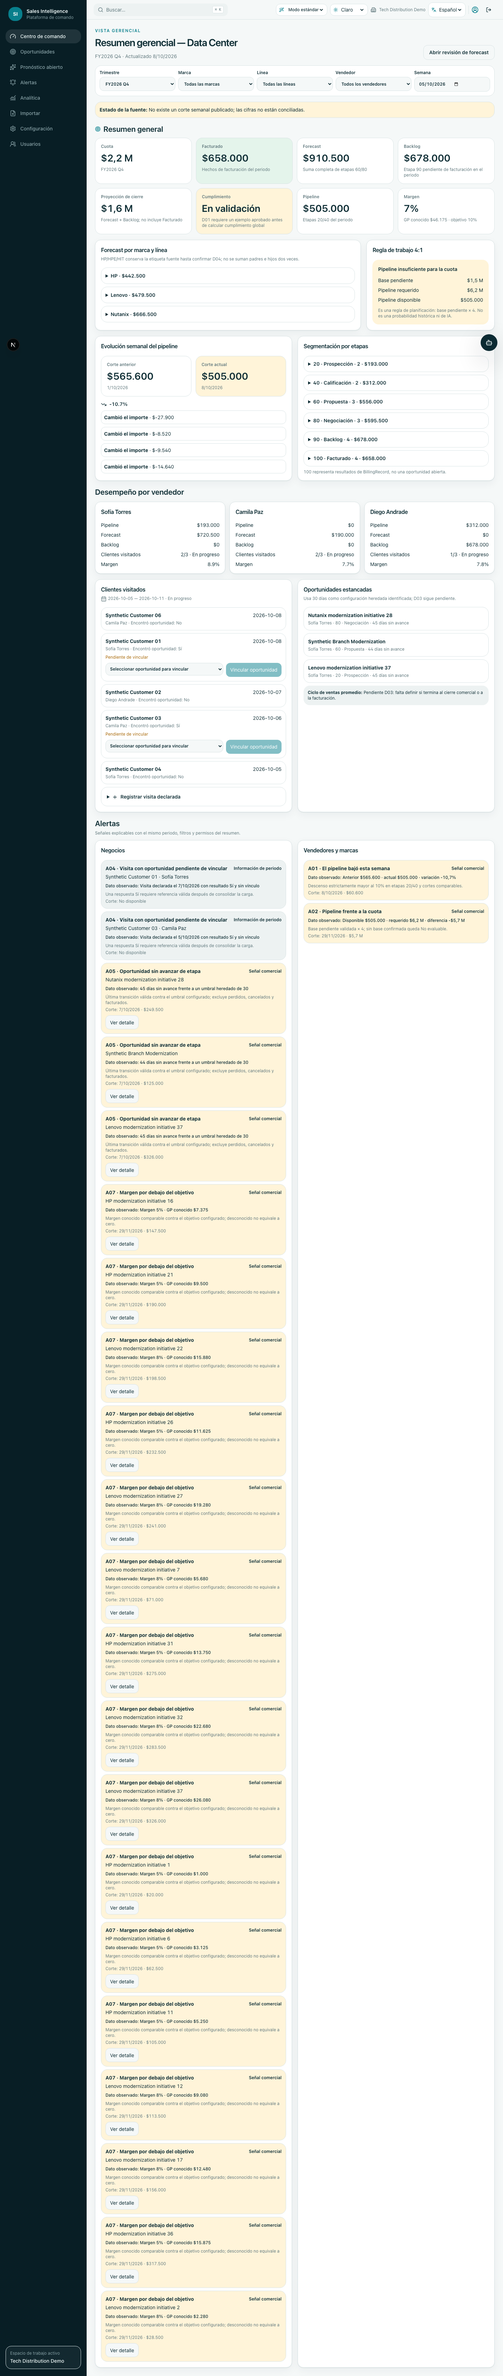
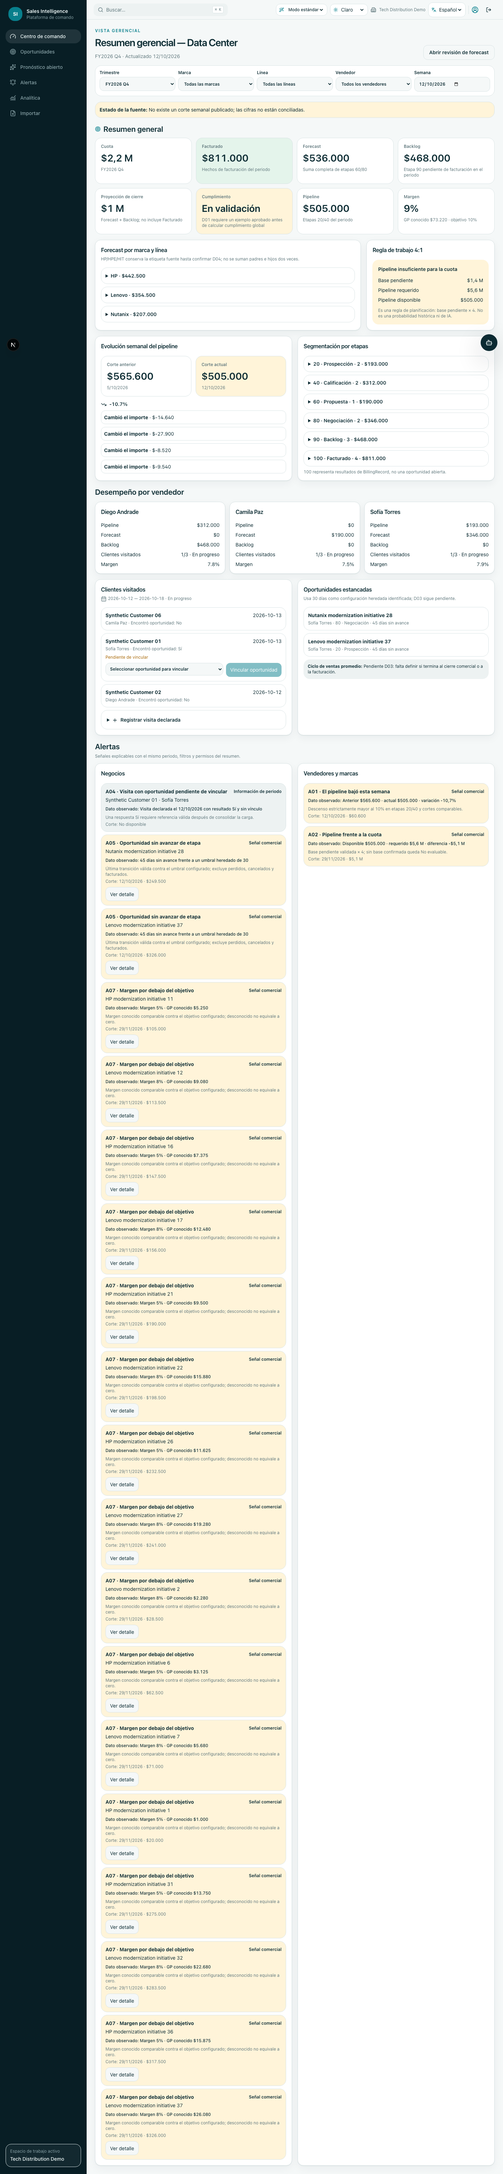
test(manager-dashboard): document integrated local review

diff --git a/apps/web/e2e/staging.spec.ts b/apps/web/e2e/staging.spec.ts
@@ -14,6 +14,10 @@ const executivePassword = process.env.STAGING_EXECUTIVE_PASSWORD;
 const viewerEmail = process.env.STAGING_VIEWER_EMAIL;
 const viewerPassword = process.env.STAGING_VIEWER_PASSWORD;
 const vercelAutomationBypass = process.env.VERCEL_AUTOMATION_BYPASS_SECRET;
+const evidenceDirectory = path.resolve(
+  process.cwd(),
+  '../../docs/audit/evidence/manager-dashboard-edgar',
+);
 
 let adminContext: BrowserContext;
 let adminPage: Page;
@@ -22,6 +26,12 @@ let managerPage: Page | undefined;
 let sellerContext: BrowserContext | undefined;
 let sellerPage: Page | undefined;
 const localLoginAttemptTimes: number[] = [];
+
+function isSyntheticEvidenceCaptureEnabled(): boolean {
+  return (
+    process.env.E2E_ALLOW_LOCAL === 'true' && process.env.E2E_CAPTURE_SYNTHETIC_EVIDENCE === 'true'
+  );
+}
 
 function browserContextOptions() {
   return {
@@ -278,6 +288,10 @@ test('admin can manage a synthetic opportunity', async () => {
 test('manager drills into stage evidence, opens context and closes with Escape', async () => {
   test.skip(!managerPage, 'Manager staging credentials are optional');
   const page = managerPage!;
+  const captureEvidence = isSyntheticEvidenceCaptureEnabled();
+  if (captureEvidence) await mkdir(evidenceDirectory, { recursive: true });
+  await page.setViewportSize({ width: 1440, height: 1024 });
+  await page.evaluate(() => localStorage.setItem('sip-appearance', 'LIGHT'));
   await page.goto('/app/dashboard');
 
   const negotiation = page.locator('details').filter({ hasText: '80 · Negotiation' }).first();
@@ -288,6 +302,11 @@ test('manager drills into stage evidence, opens context and closes with Escape',
   await opportunity.click();
   const drawer = page.getByRole('dialog', { name: /Opportunity context|.+/ }).last();
   await expect(drawer).toBeVisible();
+  if (captureEvidence) {
+    await page.screenshot({
+      path: path.join(evidenceDirectory, 'opportunity-detail-1440-en-light.png'),
+    });
+  }
   const askCopilot = drawer.getByRole('button', { name: 'Ask Copilot' });
   await askCopilot.click();
   const copilot = page.getByRole('region', { name: 'Sales Copilot' });
@@ -305,6 +324,11 @@ test('manager drills into stage evidence, opens context and closes with Escape',
   await inspect.click();
   const alertDrawer = page.getByRole('dialog').last();
   await expect(alertDrawer).toBeVisible();
+  if (captureEvidence) {
+    await page.screenshot({
+      path: path.join(evidenceDirectory, 'alert-detail-1440-en-light.png'),
+    });
+  }
   await expect
     .poll(
       async () => {
@@ -317,13 +341,8 @@ test('manager drills into stage evidence, opens context and closes with Escape',
 });
 
 test('management dashboard stays accessible without horizontal page overflow', async () => {
-  const page = adminPage;
-  const captureEvidence =
-    process.env.E2E_ALLOW_LOCAL === 'true' && process.env.E2E_CAPTURE_SYNTHETIC_EVIDENCE === 'true';
-  const evidenceDirectory = path.resolve(
-    process.cwd(),
-    '../../docs/audit/evidence/manager-dashboard-edgar',
-  );
+  const captureEvidence = isSyntheticEvidenceCaptureEnabled();
+  const page = captureEvidence && managerPage ? managerPage : adminPage;
   if (captureEvidence) await mkdir(evidenceDirectory, { recursive: true });
   await page.setViewportSize({ width: 390, height: 844 });
   await page.goto('/app/dashboard', { waitUntil: 'networkidle' });

diff --git a/docs/audit/manager-dashboard-edgar-report.md b/docs/audit/manager-dashboard-edgar-report.md
@@ -1,10 +1,10 @@
 # Auditoría de implementación — Resumen gerencial Data Center
 
-Fecha: 2026-10-08
+Fecha: 2026-10-12 (última revisión G19)
 
 Rama: `feat/manager-dashboard-edgar`
 
-Base: `origin/staging` `de23454048f22bf2deac295630235c181b661c04`
+Base integrada localmente: `origin/staging` `2714700911293de14429f6851963168a929c0bf7`
 
 Entorno verificado: Docker PostgreSQL y aplicaciones localmente aisladas. No se importaron datos de staging.
 
@@ -12,7 +12,7 @@ Entorno verificado: Docker PostgreSQL y aplicaciones localmente aisladas. No se 
 
 El bloque A+B está implementado sobre NestJS/Prisma/PostgreSQL y Next.js/RTK Query existentes. El cálculo se concentra en `manager-dashboard.service.ts` y funciones puras de `manager-dashboard.metrics.ts`. La UI principal es `manager-dashboard-edgar.tsx`; importación y configuración amplían flujos existentes.
 
-El workbook real no apareció en rutas autorizadas del repositorio y las cuatro páginas de Notion no fueron accesibles desde este entorno. La conciliación de la carga de Edgar es **NO VERIFICADA**. Todas las evidencias versionadas usan fixtures sintéticos.
+El workbook real no apareció en rutas autorizadas del repositorio. Las páginas de contrato, historial, índice y encargo G19 de Notion sí se consultaron durante G19, sin que aportaran el Excel vigente ni resolvieran D01–D04. La conciliación de la carga de Edgar es **NO VERIFICADA**. Todas las evidencias versionadas usan fixtures sintéticos.
 
 ## Matriz contractual
 
@@ -78,6 +78,8 @@ El run de CI del baseline `de234540` ya terminaba en fallo externo con `quality`
 - `docs/audit/evidence/manager-dashboard-edgar/mobile-390-es-light.png`
 - `docs/audit/evidence/manager-dashboard-edgar/mobile-390-es-dark.png`
 - `docs/audit/evidence/manager-dashboard-edgar/mobile-390-en-light.png`
+- `docs/audit/evidence/manager-dashboard-edgar/opportunity-detail-1440-en-light.png`
+- `docs/audit/evidence/manager-dashboard-edgar/alert-detail-1440-en-light.png`
 
 El mismo recorrido valida 360/375 sin overflow, teclado sobre filtros/desgloses, drawer/Escape, EN/ES y Light/Dark. La bandera de captura sólo funciona junto con `E2E_ALLOW_LOCAL=true`, evitando versionar accidentalmente pantallas remotas.
 
@@ -241,3 +243,131 @@ La revisión independiente reprodujo un defecto temporal: con `now = 2026-10-12T
 Se añadieron cuatro casos deterministas usando registros clonados: revisión futura falla, revisión válida ya realizada pasa, `reviewedAt === now` pasa y fecha inválida falla. Los 27 casos anteriores permanecen; la suite completa es 31/31. Los casos existentes conservan la prueba de revisión vencida, vencimiento absoluto exacto y registro aprobado actual vigente. El audit real continúa como `AUDIT_RAW: FAIL`, mientras la política devuelve `SECURITY_POLICY: PASS_WITH_TIME_LIMITED_EXCEPTION` con 0 critical, 1 high, 2 moderate y 1 low.
 
 La autorización, el inicio, la revisión semanal, el vencimiento absoluto, el alcance y el historial real no cambiaron. Esta reparación no registra una revisión semanal futura ni renueva la excepción. No cambia producto, dependencias, schema, empaquetado, datos ni despliegues; los E2E, contenedores, runtime e imágenes de G15/G16 se reutilizan y no fueron ejecutados nuevamente.
+
+## G19 — Integración de staging y revisión local — 2026-10-12
+
+### Base, HEAD y conflicto resuelto
+
+- PR: [#29](https://github.com/georgenton/sales-intelligent-platform/pull/29), sin merge hacia `staging`.
+- HEAD remoto funcional: `157d28a776a6270aba434b26cb090c4ff610e9d5`.
+- Base estable integrada: `2714700911293de14429f6851963168a929c0bf7`.
+- Merge local: `5ed407ef6f4cc53e877770a1be3a5d3968f159c3`; `origin/staging` es ancestro del HEAD local.
+- `main` observado y no modificado: `77c58dd7f2fa7fe791f4a478ff1d3e7e7915d22a`.
+
+GitHub mostraba el PR remoto como `CONFLICTING/DIRTY` porque ambas ramas habían editado el mismo bloque de `apps/api/test/phase1-commercial.integration-spec.ts`. La resolución se hizo archivo por archivo: se conservaron los fixtures y casos ampliados del dashboard, y la corrección estable que selecciona la marca esperada por `brandId`, exige su cuota explícita y mantiene `null` para cuota y métricas dependientes de la marca no configurada. No se cambió el orden del backend, no se retiraron aserciones y no se tomó `ours`/`theirs` global.
+
+El diff `origin/staging..HEAD` conserva sólo el desarrollo gerencial pendiente. Los manifiestos, lockfile, política G17, workflow CI y configuración compartida de seguridad son idénticos a staging; no se repitió una actualización de dependencias.
+
+### Migraciones y datos sintéticos
+
+Se creó `sip_g19_local` con PostgreSQL `17.6-alpine`, base `sales_intelligence_g19`, puertos locales API `4100`, web `3100` y PostgreSQL `5459`. Los secretos sintéticos quedaron fuera del repositorio en `~/.config/sales-intelligence-platform/g19-local-review.env`, modo `0600`.
+
+Primero se aplicaron sólo las cuatro migraciones estables. Sus checksums SHA-256 coincidieron con los archivos versionados y se insertó el tenant centinela `g19-migration-sentinel`. Después se aplicaron las dos migraciones funcionales; las seis quedaron finalizadas y el centinela se conservó.
+
+| Migración                                          | SHA-256                                                            |
+| -------------------------------------------------- | ------------------------------------------------------------------ |
[6 lines of base64/hex data omitted]
+
+El seed local creó 40 oportunidades sintéticas y perfiles Admin, Manager, Seller, Executive y Viewer. El rol `sip_runtime_g19` quedó `NOSUPERUSER` y `NOBYPASSRLS`; su falta de acceso directo a `_prisma_migrations` confirmó que no posee privilegios de owner. No se usaron cuentas, contraseñas, bases, imports ni datos remotos.
+
+### Pruebas nuevas de G19
+
+| Control                                       | Ejecutados | Aprobados | Fallidos | Omitidos | Resultado |
+| --------------------------------------------- | ---------: | --------: | -------: | -------: | --------- |
+| `pnpm format:check`                           |          1 |         1 |        0 |        0 | PASS      |
+| `pnpm lint`                                   |          1 |         1 |        0 |        0 | PASS      |
+| `pnpm typecheck`                              |          1 |         1 |        0 |        0 | PASS      |
+| Unitarias API/web/shared                      |         88 |        88 |        0 |        0 | PASS      |
+| Integración API                               |         27 |        27 |        0 |        0 | PASS      |
+| Tenant isolation/RLS                          |          5 |         5 |        0 |        0 | PASS      |
+| Build API/Next                                |          1 |         1 |        0 |        0 | PASS      |
+| E2E local completo, sin retries               |         10 |        10 |        0 |        0 | PASS      |
+| Captura focalizada drawer/alerta, sin retries |          1 |         1 |        0 |        0 | PASS      |
+| Evaluador G17                                 |         31 |        31 |        0 |        0 | PASS      |
+| Gitleaks historial completo                   |          1 |         1 |        0 |        0 | PASS      |
+
+Dos intentos iniciales de arranque E2E fallaron en `beforeAll`, antes de ejecutar los escenarios: el primero usó `next start`, que bloqueó correctamente un `API_ORIGIN` HTTP bajo semántica de producción; el segundo usó `127.0.0.1` contra `next dev`, cuyo control de origen impidió hidratar el formulario. La ejecución válida usa `next dev` y `http://localhost:3100`, no cambia producto, no desactiva controles y terminó 10/10 sin retries.
+
+Durante la pasada final, una ejecución intermedia de integración devolvió un único `401` en `/imports/analyze` después de que la misma suite ya hubiera pasado. El archivo comercial aislado pasó 18/18 tras un seed limpio y la integración completa volvió a pasar 27/27 también con seed limpio, sin retry de Vitest ni cambio de código. Al no reproducirse el defecto en dos corridas limpias, no se añadió una relogin artificial ni se ocultó la aserción; queda registrado como observación transitoria del harness local.
+
+La integración cubrió de nuevo idempotencia de lote, actualización semanal con historial, ausencia sin borrado, acumulado 300→350, lote parcial visible, backlog noviembre→diciembre, visitas sin oportunidad y vínculo posterior, filtros consistentes y Manager A/B. El E2E cubrió Manager real, Seller propio, Executive/Viewer de sólo lectura, detalle de etapas y alertas, Copilot error/retry, import gate, EN/ES, Light/Dark, 1440/1024/390, teclado, foco, Escape y logout/protected redirect. La semana en curso permanece `IN_PROGRESS` y no emite falso A03.
+
+### Seguridad G17 y CI/publicación
+
+- `AUDIT_RAW`: **FAIL**, como está diseñado, con 0 critical, 1 high, 2 moderate y 1 low. El high sigue siendo únicamente `GHSA-vfj7-8cjw-p6xm` en `braces@3.0.3` por la cadena de tooling aprobada.
+- `SECURITY_POLICY`: **PASS_WITH_TIME_LIMITED_EXCEPTION**, `SIP-SEC-EXC-2026-001`, revisión `2026-10-19T16:59:59Z`, vencimiento absoluto `2026-10-26T16:59:59Z`. No se cambió alcance, fecha, evaluador ni gate.
+- Gitleaks: 97 commits y aproximadamente 4.76 MB, sin hallazgos.
+- CI remoto visible: `quality` y `secrets` verdes sólo para el HEAD remoto anterior `157d28a` (run `38292595348`); no se atribuyen al HEAD local integrado.
+- Publicación: **pendiente de autorización específica**. El check existente demuestra que un push a la rama dispara Vercel Preview, es decir, un despliegue remoto. G19 permite publicar sólo si no se generan deployments; por ello no se hizo push ni se actualizó el PR remoto.
+
+No se modificaron `staging`, `main`, Railway, Vercel estable, DNS, Coolify, customer production, datos ni credenciales UAT. El worktree `fix/staging-runtime-security` y su informe local pendiente se preservaron sin cambios.
+
+### Revisión visual local
+
+URL efectiva: `http://localhost:3100/app/dashboard`.
+
+| Captura                                | Ruta             | Rol     | Filtros/fecha de corte                                                                 | Fixture                                                  | Contrato evidenciado                                                                                                                                   |
+| -------------------------------------- | ---------------- | ------- | -------------------------------------------------------------------------------------- | -------------------------------------------------------- | ------------------------------------------------------------------------------------------------------------------------------------------------------ |
+| `desktop-1440-es-light.png`            | `/app/dashboard` | Manager | FY2026 Q4; todas las marcas, líneas y sellers; semana de 2026-10-12; Light; ES         | `tech-distribution-demo`, seed local de 40 oportunidades | R01–R04 y R06–R10; A01–A07; alcance completo de escritorio, estados no configurados y aviso de fuente no reconciliada                                  |
+| `tablet-1024-es-light.png`             | `/app/dashboard` | Manager | Mismos filtros y semana; Light; ES                                                     | Mismo seed sintético                                     | R01–R10 y A01–A07 en layout tablet; navegación, densidad y ausencia de overflow                                                                        |
+| `mobile-390-es-light.png`              | `/app/dashboard` | Manager | Mismos filtros y semana; Light; ES                                                     | Mismo seed sintético                                     | R01–R10 y A01–A07 en layout móvil; orden de lectura, controles y ausencia de clipping                                                                  |
+| `mobile-390-es-dark.png`               | `/app/dashboard` | Manager | Mismos filtros y semana; Dark; ES                                                      | Mismo seed sintético                                     | R01–R10 y A01–A07 en tema oscuro y layout móvil                                                                                                        |
+| `mobile-390-en-light.png`              | `/app/dashboard` | Manager | Mismos filtros y semana; Light; EN                                                     | Mismo seed sintético                                     | R01–R10 y A01–A07 con internacionalización y layout móvil                                                                                              |
+| `opportunity-detail-1440-en-light.png` | `/app/dashboard` | Manager | FY2026 Q4; filtros globales sin restricción adicional; semana de 2026-10-12; Light; EN | Oportunidad HP sintética del mismo tenant                | Drill-down R06/R08 y contexto A05; detalle trazable sin afirmar conciliación real                                                                      |
+| `alert-detail-1440-en-light.png`       | `/app/alerts`    | Manager | Ámbito autenticado del tenant; Light; EN                                               | Alerta de riesgo sintética generada por el motor local   | Navegación y detalle usados por el contrato A01–A07; la fila capturada es evidencia de interacción, no una equivalencia individual a todos los códigos |
+
+No existe un corte semanal publicado ni una conciliación con el Excel real: la fecha visible corresponde al seed local actualizado el 2026-10-12. Las capturas no convierten esa fecha en fecha comercial aprobada.
+
+Inicio reproducible desde la raíz del repositorio, sin imprimir secretos:
+
+```bash
+docker compose --env-file ~/.config/sales-intelligence-platform/g19-local-review.env -p sip_g19_local up -d db
+
+set -a
+source ~/.config/sales-intelligence-platform/g19-local-review.env
+set +a
+export PATH=/Users/jorgequizamanchuro/.nvm/versions/node/v24.19.0/bin:$PATH
+DATABASE_URL="$MIGRATION_DATABASE_URL" pnpm db:migrate:deploy
+DATABASE_URL="$MIGRATION_DATABASE_URL" pnpm db:seed
+pnpm db:provision:runtime
+pnpm --filter @sip/api start
+```
+
+En una segunda terminal:
+
+```bash
+set -a
+source ~/.config/sales-intelligence-platform/g19-local-review.env
+set +a
+export PATH=/Users/jorgequizamanchuro/.nvm/versions/node/v24.19.0/bin:$PATH
+pnpm --filter @sip/web exec next dev --webpack --port 3100
+```
+
+Para copiar la contraseña sintética del Manager al clipboard sin mostrarla:
+
+```bash
+set -a
+source ~/.config/sales-intelligence-platform/g19-local-review.env
+set +a
+printf %s "$E2E_MANAGER_PASSWORD" | pbcopy
+```
+
+Ingresar con `manager@techdistribution.demo`. La guía de clics y la correspondencia petición → UI → fuente → limitación están en `docs/product/manager-dashboard-edgar.md`. Las siete capturas G19 son nuevas y se generaron desde la ejecución integrada; no se reutilizaron prototipos.
+
+### Estado comercial pendiente
+
+| Dependencia       | Estado G19                                                                  |
+| ----------------- | --------------------------------------------------------------------------- |
+| D01               | Abierta: falta ejemplo aprobado de TOTAL/cumplimiento global.               |
+| D02               | Abierta: falta workbook vigente, corte y naturaleza de `Facturado Daily`.   |
+| D03               | Abierta: falta evento final del ciclo y umbral aprobado de estancamiento.   |
+| D04               | Abierta: faltan aliases, catálogo/personas y Upside respaldados por fuente. |
+| Conciliación real | **NO VERIFICADA**; el seed y las capturas sintéticas no la sustituyen.      |
+| H3                | **NO INICIADO**; no existe aceptación de Edgar.                             |
+
+Notion quedó actualizado y verificado en las páginas 13, 14, índice 15 y encargo G19, sin reabrir G18-C1 ni alterar la historia de G15–G17.

diff --git a/docs/product/manager-dashboard-edgar.md b/docs/product/manager-dashboard-edgar.md
@@ -2,6 +2,8 @@
 
 Fecha del contrato implementado: 2026-10-08. Este documento describe el alcance de la vista gerencial de Edgar y las decisiones que siguen pendientes. No sustituye una aprobación comercial ni reproduce el workbook o conversaciones de origen.
 
+Revisión de integración G19: 2026-10-12 sobre `origin/staging` `2714700911293de14429f6851963168a929c0bf7`, sólo con datos sintéticos locales.
+
 ## Lectura principal
 
 La ruta `/app/dashboard` presenta una sola vista gerencial para roles no Seller. Seller conserva su espacio operativo actual. Managers y administradores pueden abrir la revisión de forecast heredada como detalle mediante `?view=review`; el Copilot permanece colapsado por defecto.
@@ -79,3 +81,28 @@ Los valores `stalledOpportunityDays`, `weeklyVisitTarget` y `pipelineCoverageRat
 - D02 — FUENTE: pendiente workbook actualizado, corte confirmado y naturaleza transaccional/acumulada de `Facturado Daily`.
 - D03 — FECHAS: pendiente evento final del ciclo y umbral aprobado de estancamiento. El valor 30 se etiqueta como heredado.
 - D04 — CATÁLOGO: pendientes aliases HP/HPE/HIT, personas y Upside con fuente. No se deducen.
+
+## Guía de revisión local G19
+
+Abrir `http://localhost:3100/app/dashboard` después de iniciar PostgreSQL, API y web con los comandos indicados en `docs/audit/manager-dashboard-edgar-report.md`. Para recorrer el alcance gerencial se usa el usuario sintético `manager@techdistribution.demo`; la contraseña no está en Git ni en este documento y permanece en el archivo privado `~/.config/sales-intelligence-platform/g19-local-review.env` con permisos `0600`.
+
+| Petición de Edgar                      | Dónde pulsar                                                         | Qué se ve                                                                        | De dónde sale                                                        | Estado o limitación                                                         |
+| -------------------------------------- | -------------------------------------------------------------------- | -------------------------------------------------------------------------------- | -------------------------------------------------------------------- | --------------------------------------------------------------------------- |
+| R01/R10 — resumen y forecast por marca | Tarjetas superiores y filas de `Forecast por marca y línea`          | Cuota, Facturado, Forecast, Backlog, gap y proyección del mismo filtro           | Quota, BillingRecord, Opportunity y OpportunityLineItem              | Probado sintéticamente; TOTAL/cumplimiento global sigue En validación (D01) |
+| R02 — evolución semanal                | `Evolución semanal del pipeline`                                     | Corte anterior, corte actual, variación y movimientos                            | ForecastSnapshot y ForecastSnapshotItem                              | Requiere cortes compatibles; una semana ausente nunca se trata como cero    |
+| R04 — regla 4:1                        | `Regla de trabajo 4:1`                                               | Base pendiente, pipeline requerido, disponible y resultado                       | Cuota, Facturado y `pipelineCoverageRatio`                           | Regla de planificación configurable; no es probabilidad histórica           |
+| R06 — segmentación por etapas          | Expandir 20/40/60/80/90 y seleccionar un negocio                     | Negocios justificantes y drawer de contexto con importe, responsable y evidencia | Opportunity, StageHistory y BillingRecord para 100                   | 100 es facturación, no oportunidad abierta                                  |
+| R09 — desempeño por vendedor           | Tarjetas de `Desempeño por vendedor`                                 | Pipeline, Forecast, Backlog, visitas y margen del ámbito autorizado              | Agregación server-side con scope de Manager                          | Sin score ni ranking inventado                                              |
+| R03 — vendedores y visitas             | `Clientes visitados`, selector de pendiente y `Vincular oportunidad` | Clientes distintos, progreso semanal, visita declarada y vínculo posterior       | CustomerVisit, Customer y Opportunity                                | Semana en curso se muestra En progreso; no dispara falso A03                |
+| A01–A07 — alertas                      | `Ver detalle` en la tarjeta correspondiente                          | Regla, dato observado, corte, importe, negocio y acción de contexto              | Motor determinista sobre snapshots, visitas, backlog, margen y etapa | A05/estancamiento conserva el umbral heredado hasta resolver D03            |
+| R05/R08 — ciclo y estancamiento        | `Oportunidades estancadas` y luego el negocio                        | Fechas disponibles, última transición fiable y contexto comercial                | Opportunity y StageHistory                                           | Promedio de ciclo no publicado; evento final y umbral pendientes (D03)      |
+
+Evidencia real de la ejecución local integrada:
+
+- `docs/audit/evidence/manager-dashboard-edgar/desktop-1440-es-light.png`: resumen, forecast, evolución, etapas, vendedores, visitas y alertas.
+- `docs/audit/evidence/manager-dashboard-edgar/tablet-1024-es-light.png`: recorrido completo a 1024 px.
+- `docs/audit/evidence/manager-dashboard-edgar/mobile-390-es-light.png`, `mobile-390-es-dark.png` y `mobile-390-en-light.png`: responsive, EN/ES y Light/Dark.
+- `docs/audit/evidence/manager-dashboard-edgar/opportunity-detail-1440-en-light.png`: detalle justificante desde una etapa.
+- `docs/audit/evidence/manager-dashboard-edgar/alert-detail-1440-en-light.png`: detalle justificante desde Alertas.
+
+Las capturas contienen únicamente el seed local sintético. No sustituyen la conciliación del workbook vigente ni la aceptación de Edgar.

diff --git a/docs/handoff/manager-dashboard-edgar-notion.md b/docs/handoff/manager-dashboard-edgar-notion.md
@@ -1,14 +1,14 @@
 # Handoff para Notion — Bloque gerencial de Edgar
 
-NOTION: ENTREGA INICIAL YA SINCRONIZADA POR CHATGPT; ACTUALIZACIONES G15/G16 PENDIENTES DE SINCRONIZACIÓN
+NOTION: G18/G18-C1 CONFIRMADOS CERRADOS; G19 SINCRONIZADO Y VERIFICADO
 
-Fecha de corte: 2026-10-08
+Fecha de corte: 2026-10-12
 
 Rama: `feat/manager-dashboard-edgar`
 
-Base: `de23454048f22bf2deac295630235c181b661c04`
+Base integrada: `2714700911293de14429f6851963168a929c0bf7`
 
-Este archivo está preparado para incorporar el avance G15 a las páginas de contrato, hitos e historial sin convertir supuestos en aprobaciones. ChatGPT ya sincronizó la entrega inicial de PR #29 después del handoff anterior. Las URLs de Notion no fueron legibles desde este entorno; no se sobrescribió esa actualización remota con el estado antiguo.
+Este archivo mantiene el historial G15–G18 y agrega G19 sin convertir pruebas sintéticas en aprobación comercial. Durante G19 el conector autorizado permitió leer contrato, historial, índice y encargo antes de actualizar. G18 y G18-C1 permanecen cerrados; no se reabren rotaciones, investigaciones ni despliegues ya finalizados.
 
 ## H1 — Implementación A+B
 
@@ -65,6 +65,24 @@ Este archivo está preparado para incorporar el avance G15 a las páginas de con
 - Comercial: R01–R10/A01–A07 sin cambios; D01–D04, R05, R08/A05 y R10 abiertos; conciliación real NO VERIFICADA; H3 NO INICIADO.
 - Entornos: Railway estable sigue live/ready 200 en el artefacto anterior; Vercel estable no se movió. Main, staging, datos, credenciales, DNS y customer production sin cambios.
 - Notion: sin conector autorizado en este entorno; este handoff queda pendiente de sincronización y no sobrescribe la historia ya enviada.
+
+## G19 — Integración y revisión local del mismo PR #29
+
+- Estado: **INTEGRADO LOCALMENTE Y LISTO PARA REVISIÓN LOCAL; PUBLICACIÓN REMOTA PENDIENTE DE AUTORIZACIÓN**.
+- Rama/PR: `feat/manager-dashboard-edgar`, mismo PR #29 hacia `staging`; no se abrió PR sustituto.
+- Base estable integrada: `origin/staging` `2714700911293de14429f6851963168a929c0bf7`; merge local `5ed407ef6f4cc53e877770a1be3a5d3968f159c3`.
+- Conflicto: único archivo `apps/api/test/phase1-commercial.integration-spec.ts`; se conservaron fixtures/casos gerenciales y la aserción estable por `brandId`, incluida la marca sin cuota con valores `null`.
+- Migrations: cuatro estables más dos funcionales, seis total; checksums coincidentes y tenant centinela conservado al pasar 4→6.
+- Entorno: PostgreSQL `17.6-alpine`, API `4100`, web `3100`; seed de 40 oportunidades y perfiles sintéticos. Secretos fuera de Git en `~/.config/sales-intelligence-platform/g19-local-review.env` modo `0600`.
+- Calidad nueva G19: frozen install, format/lint/typecheck/build PASS; 88/88 unitarias, 27/27 integración, 5/5 RLS, 10/10 E2E completos sin retries, 1/1 captura focalizada, 31/31 política G17 y gitleaks sin hallazgos en 97 commits.
+- Seguridad: `AUDIT_RAW: FAIL` por el high exacto de `braces@3.0.3`; `SECURITY_POLICY: PASS_WITH_TIME_LIMITED_EXCEPTION`. Revisión `2026-10-19T16:59:59Z`, vencimiento absoluto `2026-10-26T16:59:59Z`; sin renovación ni cambio de alcance.
+- Evidencia: siete capturas nuevas de la ejecución integrada, con 1440/1024/390, ES/EN, Light/Dark, resumen, forecast, evolución, etapas, vendedores, visitas, alertas y drawers de negocio/alerta.
+- Revisión: `http://localhost:3100/app/dashboard`; usuario sintético `manager@techdistribution.demo`. La contraseña no se registra y se copia desde el archivo privado mediante `pbcopy`.
+- Publicación: no se hizo push porque el check del PR demuestra que actualizar la rama crea Vercel Preview. El CI remoto verde visible pertenece al HEAD remoto anterior `157d28a`, no al HEAD local integrado.
+- Entornos remotos: `staging`, `main`, Railway, Vercel estable, DNS, Coolify, datos y seis credenciales UAT permanecen sin cambios.
+- Comercial: R01–R04, R06–R07, R09 y A01–A04/A06–A07 revalidados; las mecánicas seguras de R05/R08/A05/R10 se conservan sin cerrar D01–D04. Conciliación real **NO VERIFICADA**; H3 **NO INICIADO**.
+- Documentos: `docs/product/manager-dashboard-edgar.md` contiene la guía de clics; `docs/audit/manager-dashboard-edgar-report.md` conserva comandos, checksums, pruebas, capturas y límites.
+- Memoria: insertar G19 como actualización nueva en contrato/historial/índice/encargo, sin reemplazar G15–G18 ni marcar riesgo aceptado fuera de G17.
 
 ## H3 — Aceptación posterior de Edgar
 
